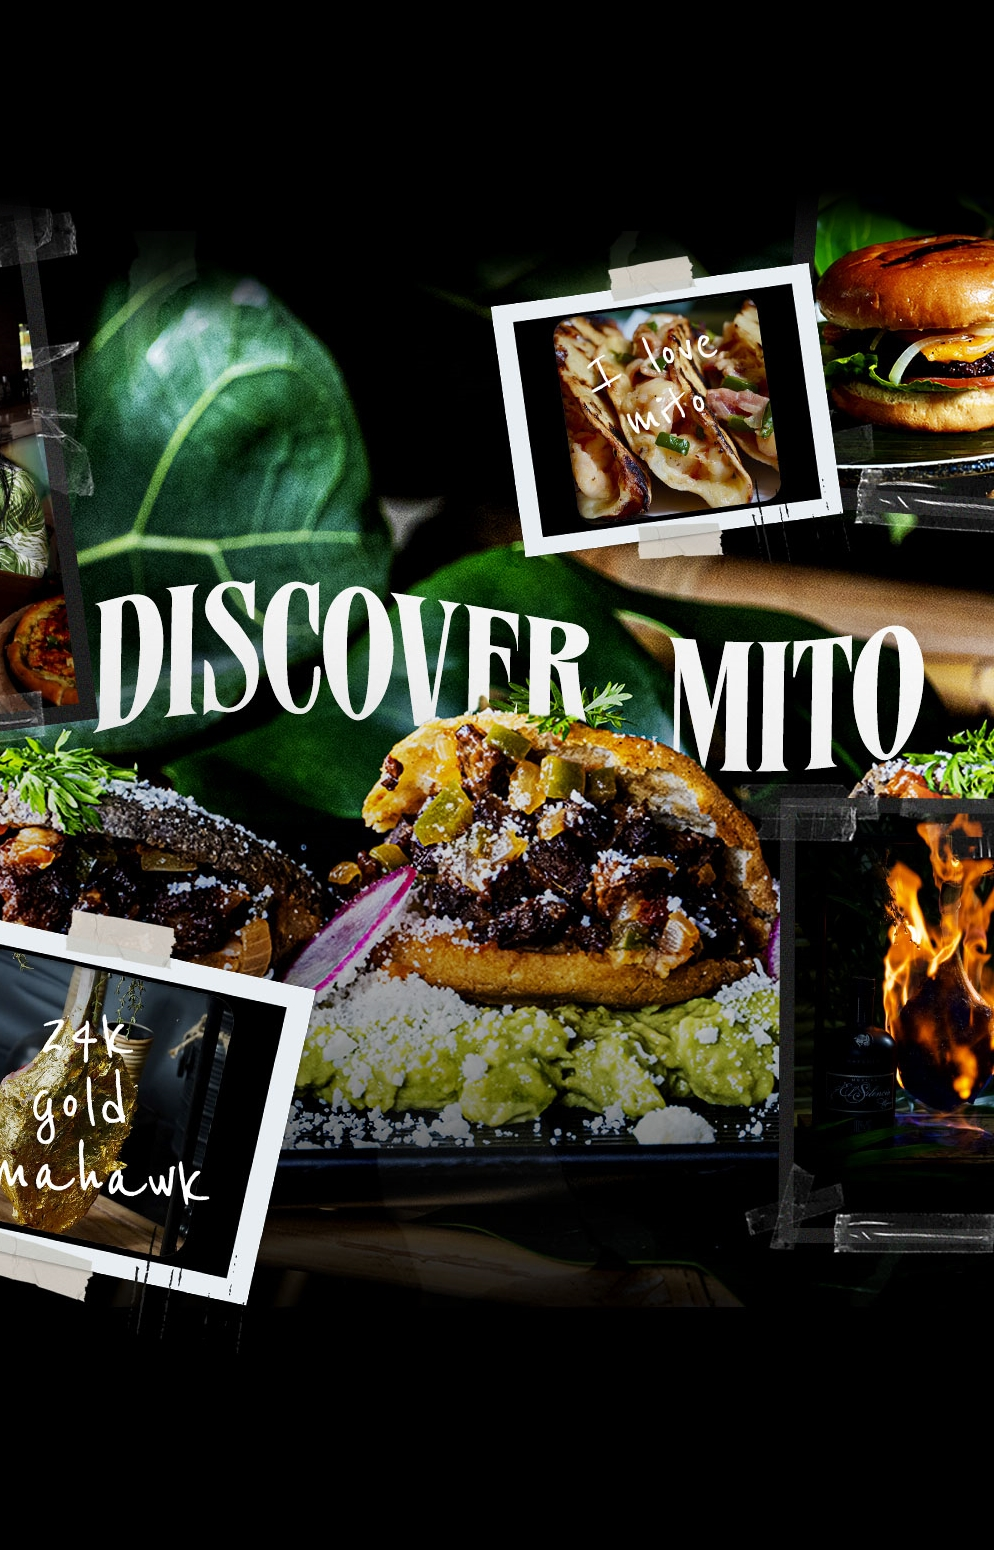
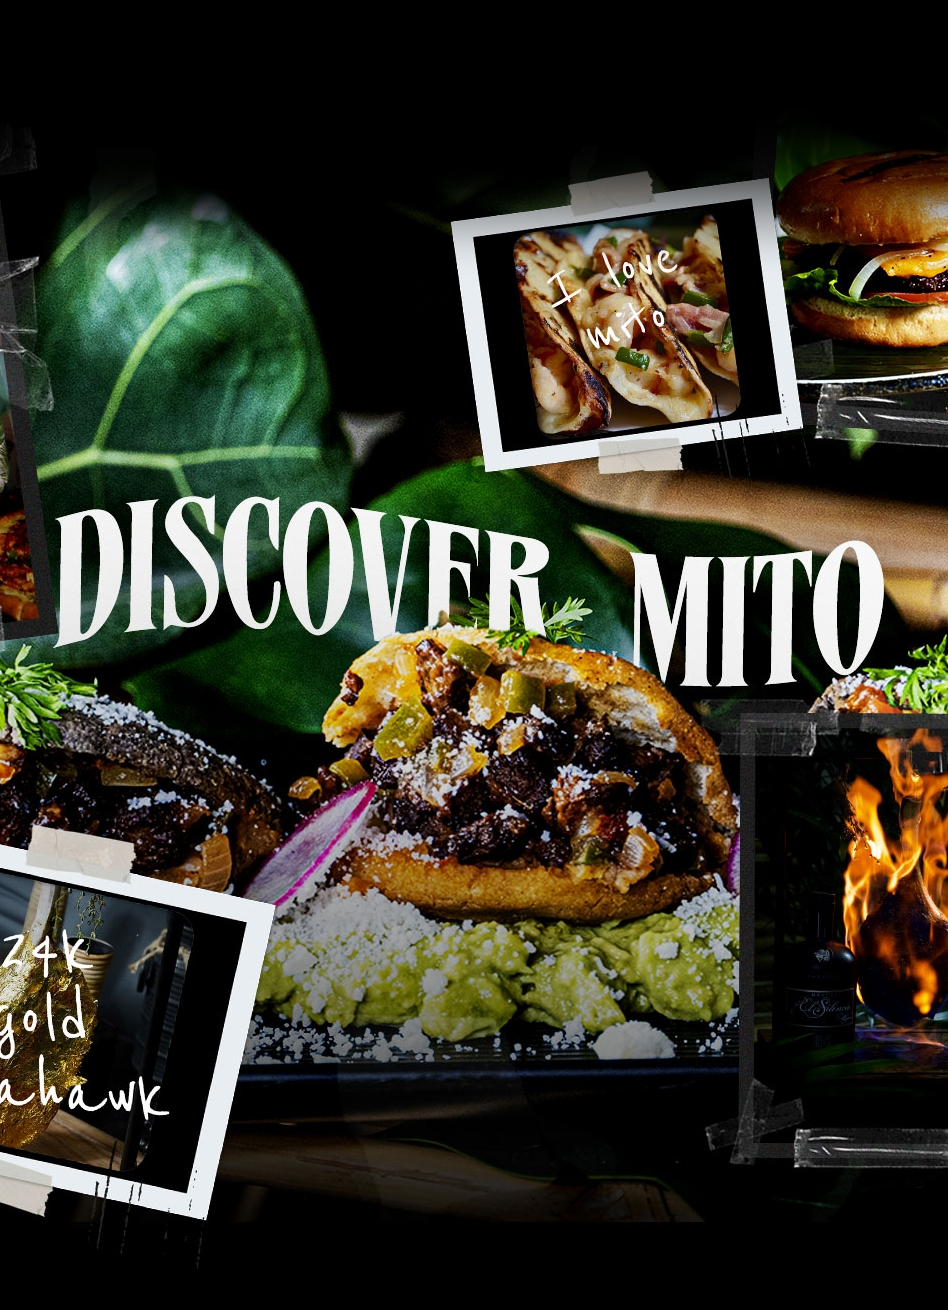
xd

diff --git a/css/style.css b/css/style.css
@@ -64,7 +64,7 @@ h2 .home{
 	background-image: url();
 	background-color: #000000;
 	background-image: linear-gradient(
-		to bottom, transparent, black), url("../img/backgrounds/gallery.jpg");
+    to bottom, transparent, black), url("../img/backgrounds/gallery.jpg");
 	background-position: top;
 	background-size: cover;
 }
@@ -627,8 +627,9 @@ input{
 	.home{
 		background-image: url("../img/backgrounds/home-bg-m.jpg")!important;
 		background-position: center!important;
-		background-size: auto 100%;
+		background-size: 100vw 100vh!important;
 		background-repeat: no-repeat;
+		height: 100vh;
 	}
 
 	.gallery{
